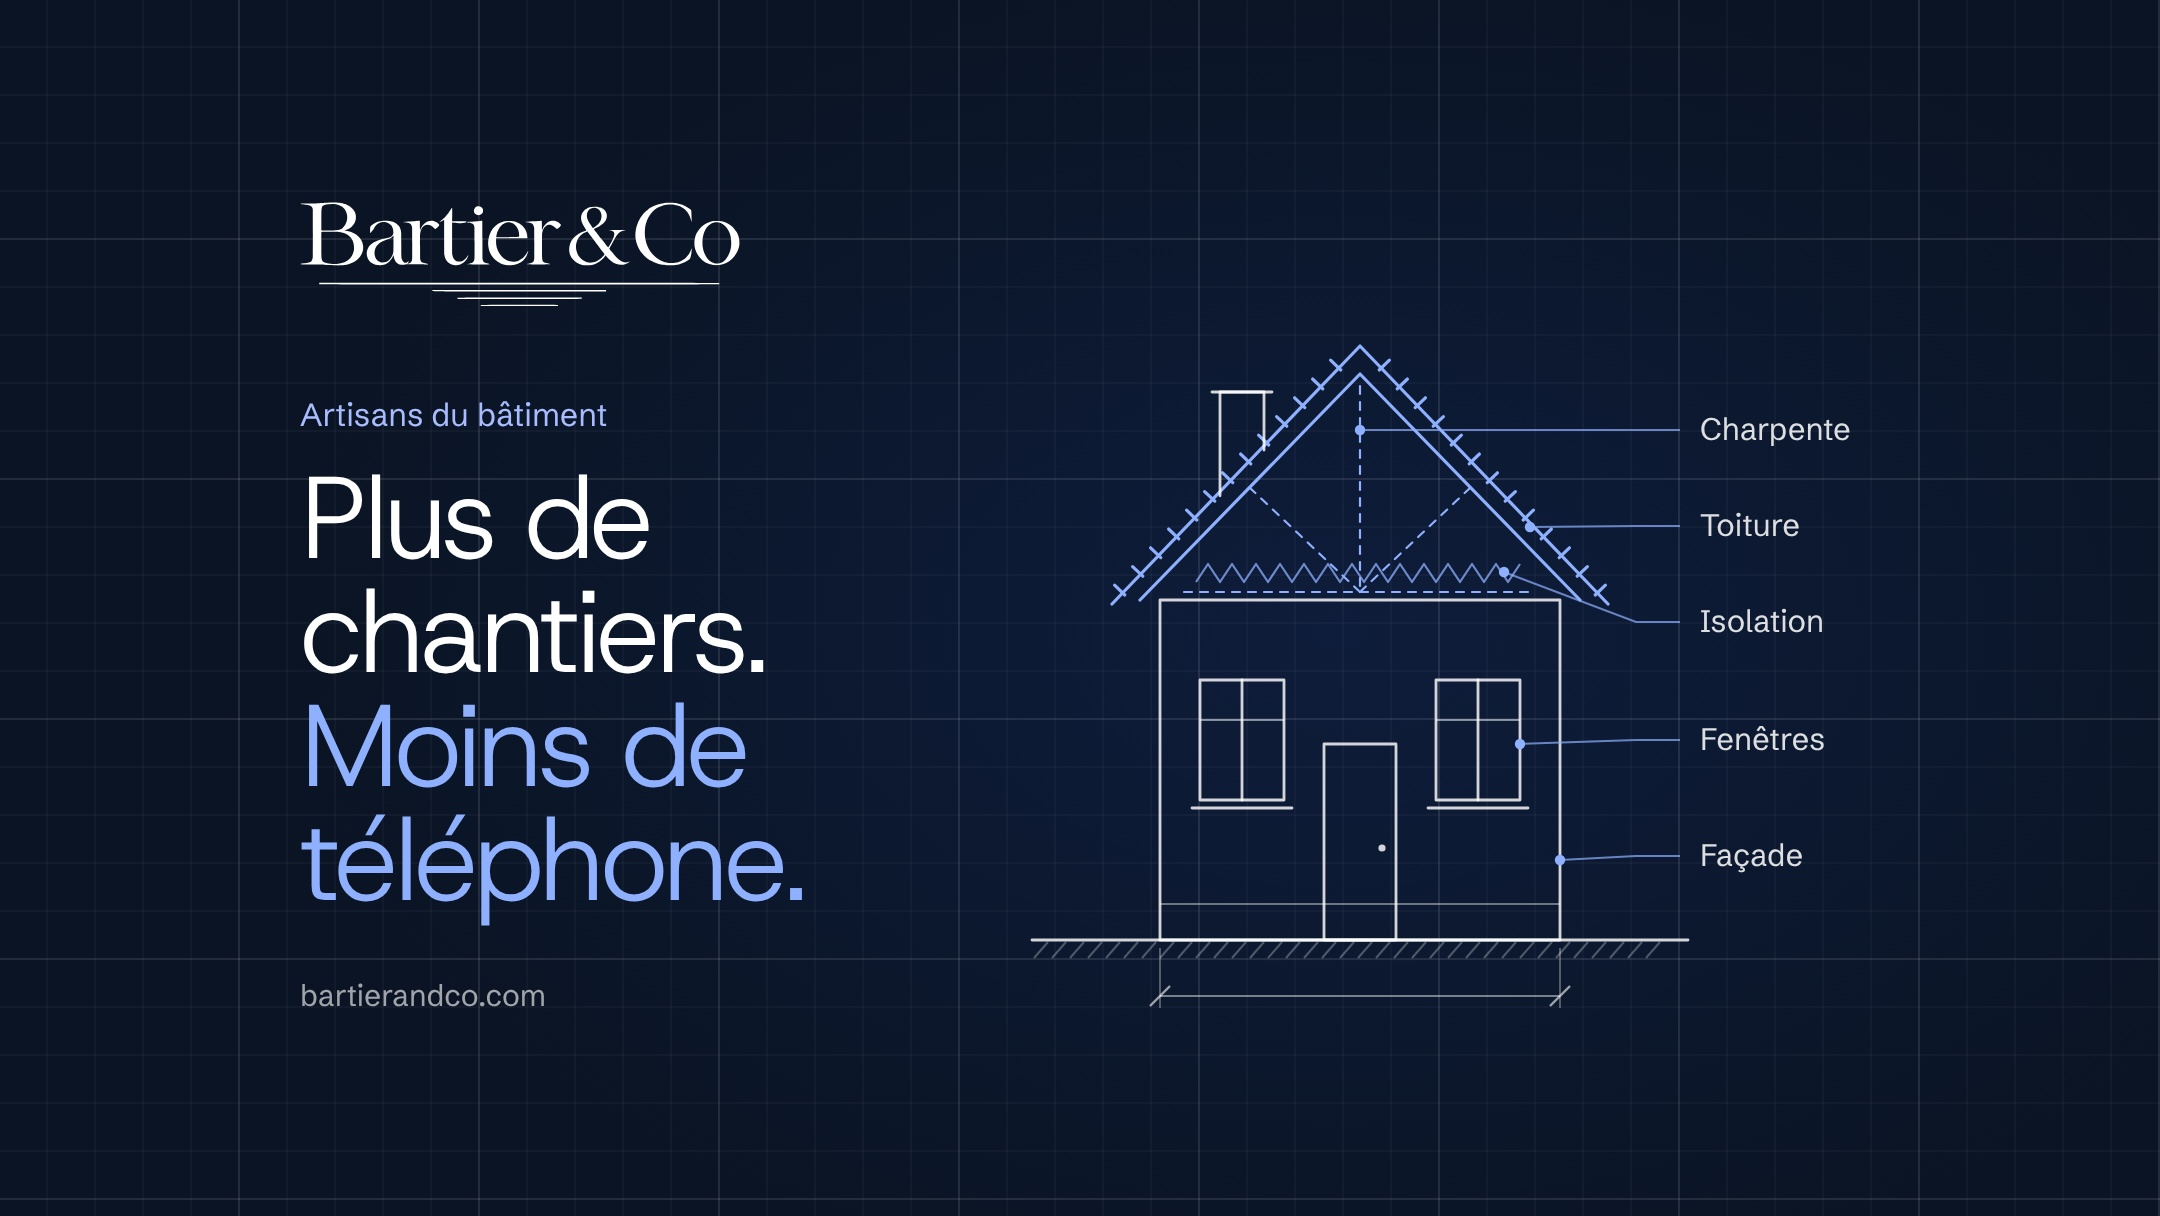
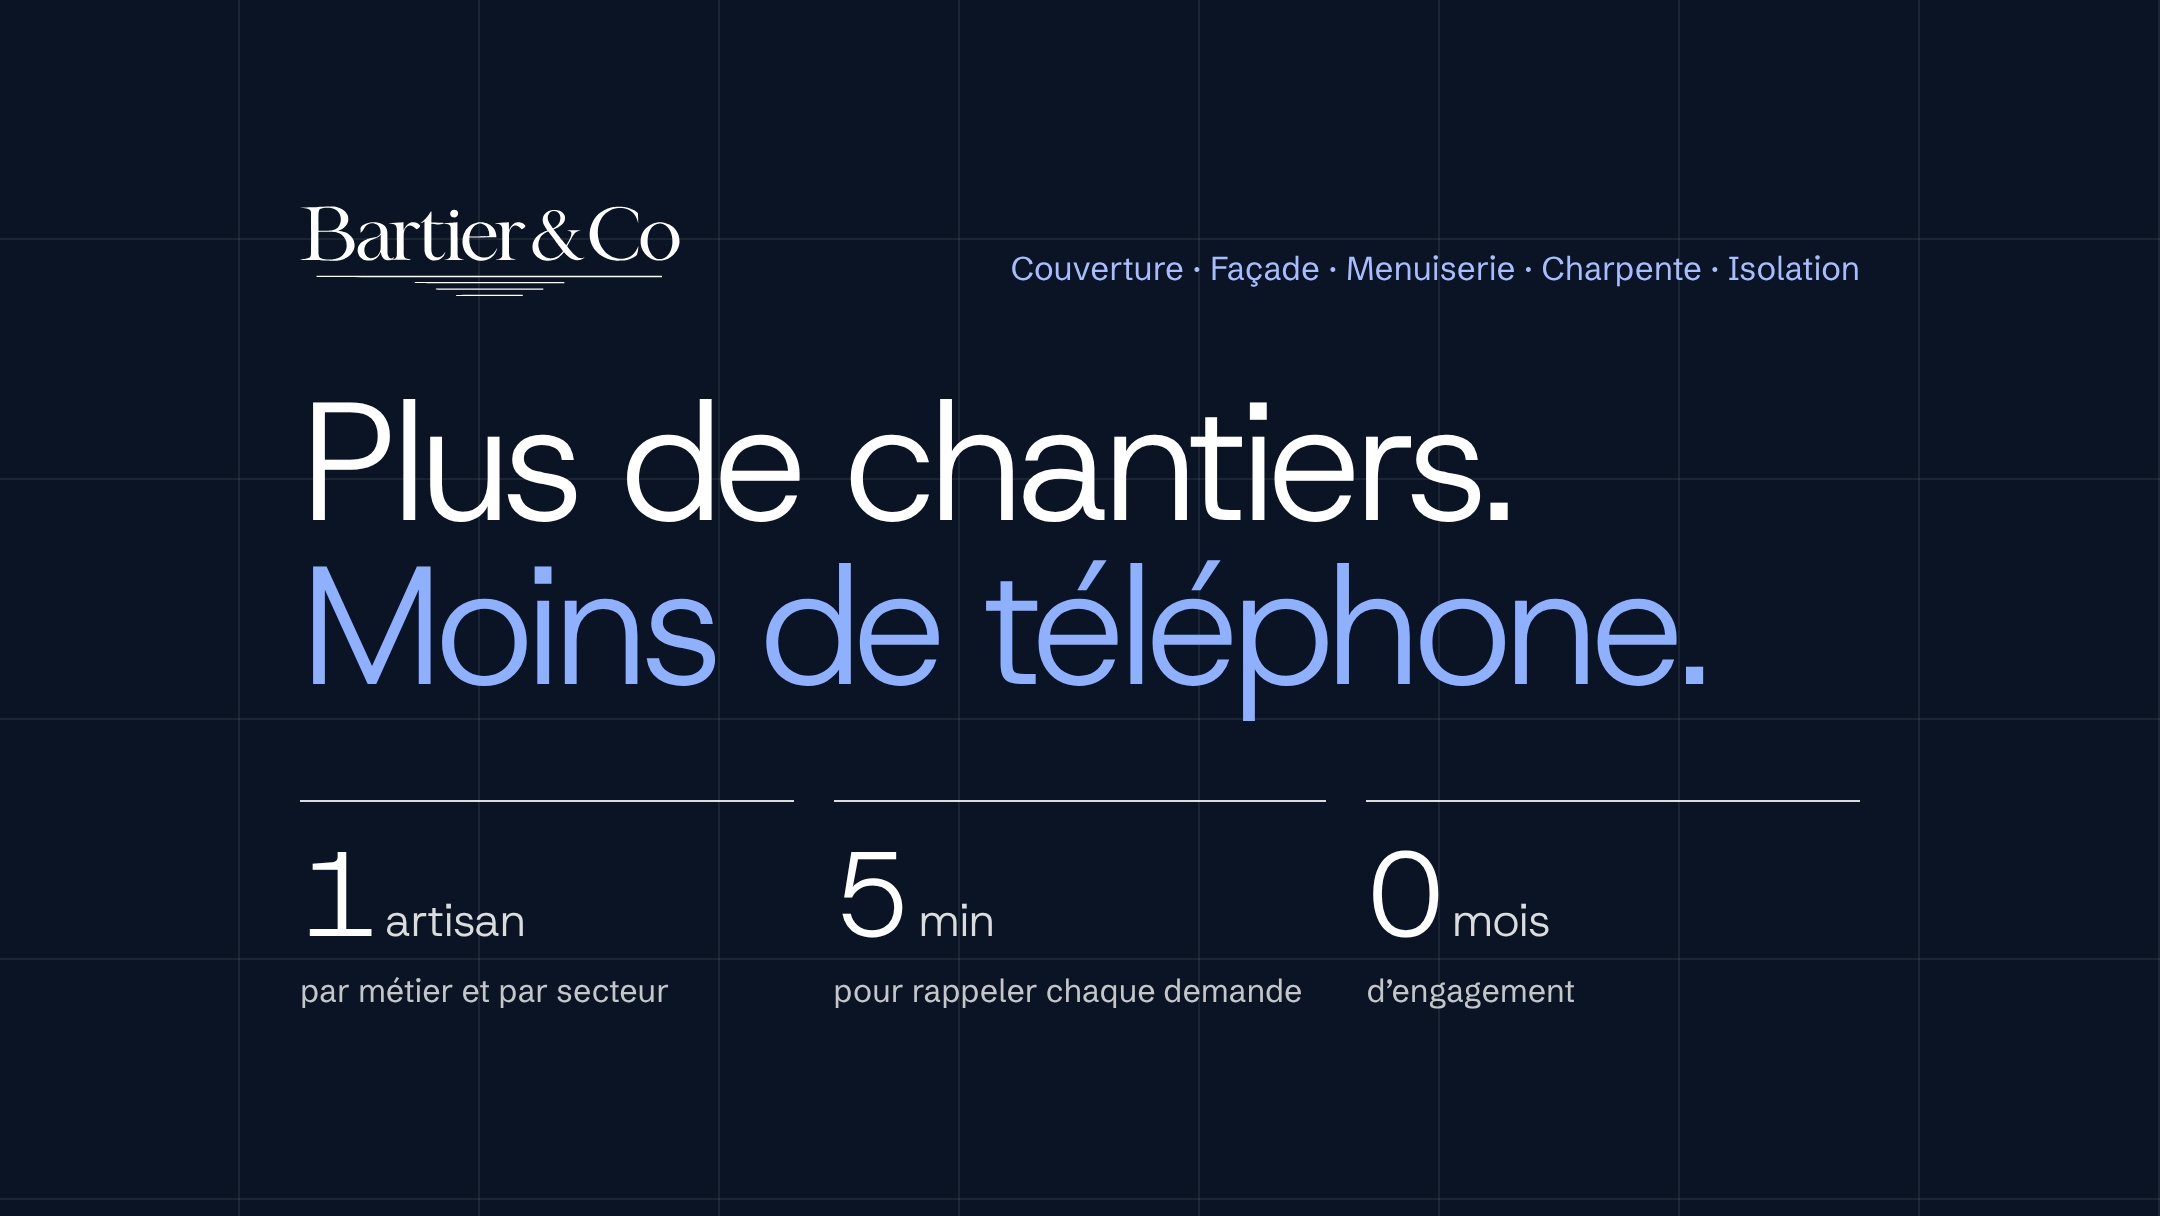
Fiche Google : couverture plus claire, pensée pour les artisans
Sans illustration : leurs métiers, « Plus de chantiers. Moins de téléphone. » et trois chiffres
(1 artisan par métier et par secteur, 5 min pour rappeler chaque demande, 0 mois d'engagement).
Lisible en vignette, contenu gardé au centre pour les recadrages de Google.

Claude-Session: https://claude.ai/code/session_01WSPrAzUG2ABVQWwnDejead

diff --git a/explorations/fiche-google/_build/couverture.js b/explorations/fiche-google/_build/couverture.js
@@ -1,0 +1,45 @@
+// Couverture de la fiche Google, version artisans : leurs métiers, la promesse, trois chiffres. Lisible même en vignette.
+// Rendu 1080 x 608 en CSS, x2 => 2160 x 1216. Tout le contenu tient entre x 150 et 930 (recadrage 4:3 de Google).
+const { chromium } = require('playwright');
+const fs = require('fs');
+const V8B = '/home/user/bartier/explorations/v8b';
+const OUT = process.argv[2];
+const font = f => 'data:font/woff2;base64,' + fs.readFileSync(`${V8B}/assets/fonts/${f}`).toString('base64');
+const logo = fs.readFileSync(`${V8B}/assets/logo-bartier.svg`, 'utf8').replace('<svg ', '<svg style="display:block;width:190px;height:auto;color:#fff" ');
+const facts = [['1', 'artisan', 'par métier et par secteur'], ['5', 'min', 'pour rappeler chaque demande'], ['0', 'mois', 'd’engagement']];
+const html = `<!doctype html><html lang="fr"><head><meta charset="utf-8"><style>
+@font-face{font-family:HG;src:url(${font('host-grotesk-latin.woff2')}) format('woff2');font-weight:300 800}
+@font-face{font-family:HG;src:url(${font('host-grotesk-latin-ext.woff2')}) format('woff2');font-weight:300 800;unicode-range:U+0100-024F}
+@font-face{font-family:SG;src:url(${font('schibsted-grotesk-latin.woff2')}) format('woff2');font-weight:400 900}
+@font-face{font-family:SG;src:url(${font('schibsted-grotesk-latin-ext.woff2')}) format('woff2');font-weight:400 900;unicode-range:U+0100-024F}
+*{box-sizing:border-box;margin:0;padding:0}
+body{width:1080px;height:608px;overflow:hidden;-webkit-font-smoothing:antialiased}
+.c{position:relative;width:1080px;height:608px;color:#fff;padding:0 150px;display:flex;flex-direction:column;justify-content:center;
+  background:
+    linear-gradient(to right, rgba(255,255,255,.07) 1px, transparent 1px) -1px -1px / 120px 120px,
+    linear-gradient(to bottom, rgba(255,255,255,.07) 1px, transparent 1px) -1px -1px / 120px 120px,
+    #0A1424}
+.top{display:flex;align-items:flex-end;justify-content:space-between}
+.k{font-family:SG;font-size:16.5px;color:#a9bcff;padding-bottom:4px}
+.h{font-family:HG;font-weight:300;font-size:84px;line-height:.98;letter-spacing:-.045em;margin-top:42px}
+.h span{color:#8fb0ff}
+.f{display:grid;grid-template-columns:repeat(3,1fr);gap:20px;margin-top:46px}
+.f div{border-top:1.5px solid rgba(255,255,255,.85);padding-top:16px}
+.n{font-family:HG;font-weight:300;font-size:60px;line-height:1;letter-spacing:-.04em}
+.n small{font-size:23px;letter-spacing:-.01em;margin-left:6px;color:rgba(255,255,255,.85)}
+.l{font-family:SG;font-size:16px;white-space:nowrap;color:rgba(255,255,255,.76);margin-top:8px}
+</style></head><body><div class="c">
+  <div class="top">${logo}<p class="k">Couverture · Façade · Menuiserie · Charpente · Isolation</p></div>
+  <p class="h">Plus de chantiers.<br><span>Moins de téléphone.</span></p>
+  <div class="f">${facts.map(([n, u, l]) => `<div><p class="n">${n}<small>${u}</small></p><p class="l">${l}</p></div>`).join('')}</div>
+</div></body></html>`;
+(async () => {
+  const b = await chromium.launch();
+  const p = await b.newPage({ viewport: { width: 1080, height: 608 }, deviceScaleFactor: 2 });
+  await p.setContent(html);
+  await p.evaluate(() => document.fonts.ready);
+  await p.waitForTimeout(200);
+  await p.screenshot({ path: OUT });
+  await b.close();
+  console.log('ok');
+})();
